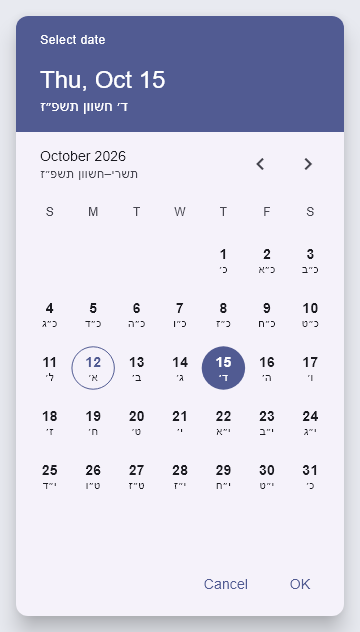
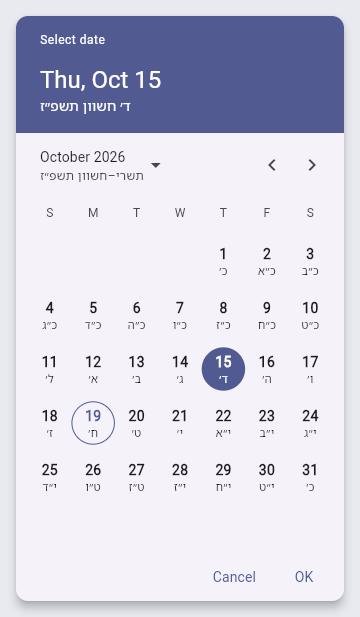
Add screenshots of the Hebrew calendar mode and the form fields

diff --git a/README.md b/README.md
@@ -11,7 +11,7 @@ Gregorian one:
   (e.g. `1990` / `תש״נ–תשנ״א`), so far-away dates are a couple of taps away,
 * a range picker selects a start and an end date, with the Hebrew dates of both in the header.
 
-<img src="https://raw.githubusercontent.com/blimyp/hebrew_date_picker/main/screenshots/hebrew_date_picker.png" alt="Hebrew date picker" width="360"> <img src="https://raw.githubusercontent.com/blimyp/hebrew_date_picker/main/screenshots/hebrew_date_range_picker.png" alt="Hebrew date range picker" width="360">
+<img src="https://raw.githubusercontent.com/blimyp/hebrew_date_picker/main/screenshots/hebrew_date_picker.png" alt="Hebrew date picker" width="260"> <img src="https://raw.githubusercontent.com/blimyp/hebrew_date_picker/main/screenshots/hebrew_date_range_picker.png" alt="Hebrew date range picker" width="260"> <img src="https://raw.githubusercontent.com/blimyp/hebrew_date_picker/main/screenshots/hebrew_calendar_mode.png" alt="Hebrew date picker with CalendarMode.hebrew" width="260">
 
 Hebrew dates are calculated with [kosher_dart](https://pub.dev/packages/kosher_dart) and the
 calendar grid is built on [table_calendar](https://pub.dev/packages/table_calendar).
@@ -81,6 +81,8 @@ customization parameters as `HebrewDatePicker`; `helpText` defaults to
 `HebrewDateFormField` is a read-only text field that opens the picker when tapped and shows
 the picked date, so you don't have to build one yourself. It is a `FormField`, so it works
 inside a `Form` with `validator` and `onSaved`, and on its own with `onChanged`:
+
+<img src="https://raw.githubusercontent.com/blimyp/hebrew_date_picker/main/screenshots/hebrew_date_form_field.png" alt="Hebrew date form fields" width="480">
 
 ```dart
 HebrewDateFormField(

diff --git a/CHANGELOG.md b/CHANGELOG.md
@@ -9,6 +9,8 @@
 * With `CalendarMode.hebrew` the calendar pages by Hebrew months instead of Gregorian ones: each
   page is a whole Hebrew month, titled e.g. `תשרי תשפ״ז`, with Hebrew weekday letters, and
   the year grid lists Hebrew years. Selecting a year keeps the Hebrew day and month.
+* Add screenshots of `CalendarMode.hebrew` and of the form fields, and refresh the date
+  picker's screenshot.
 
 ## 0.3.0
 
